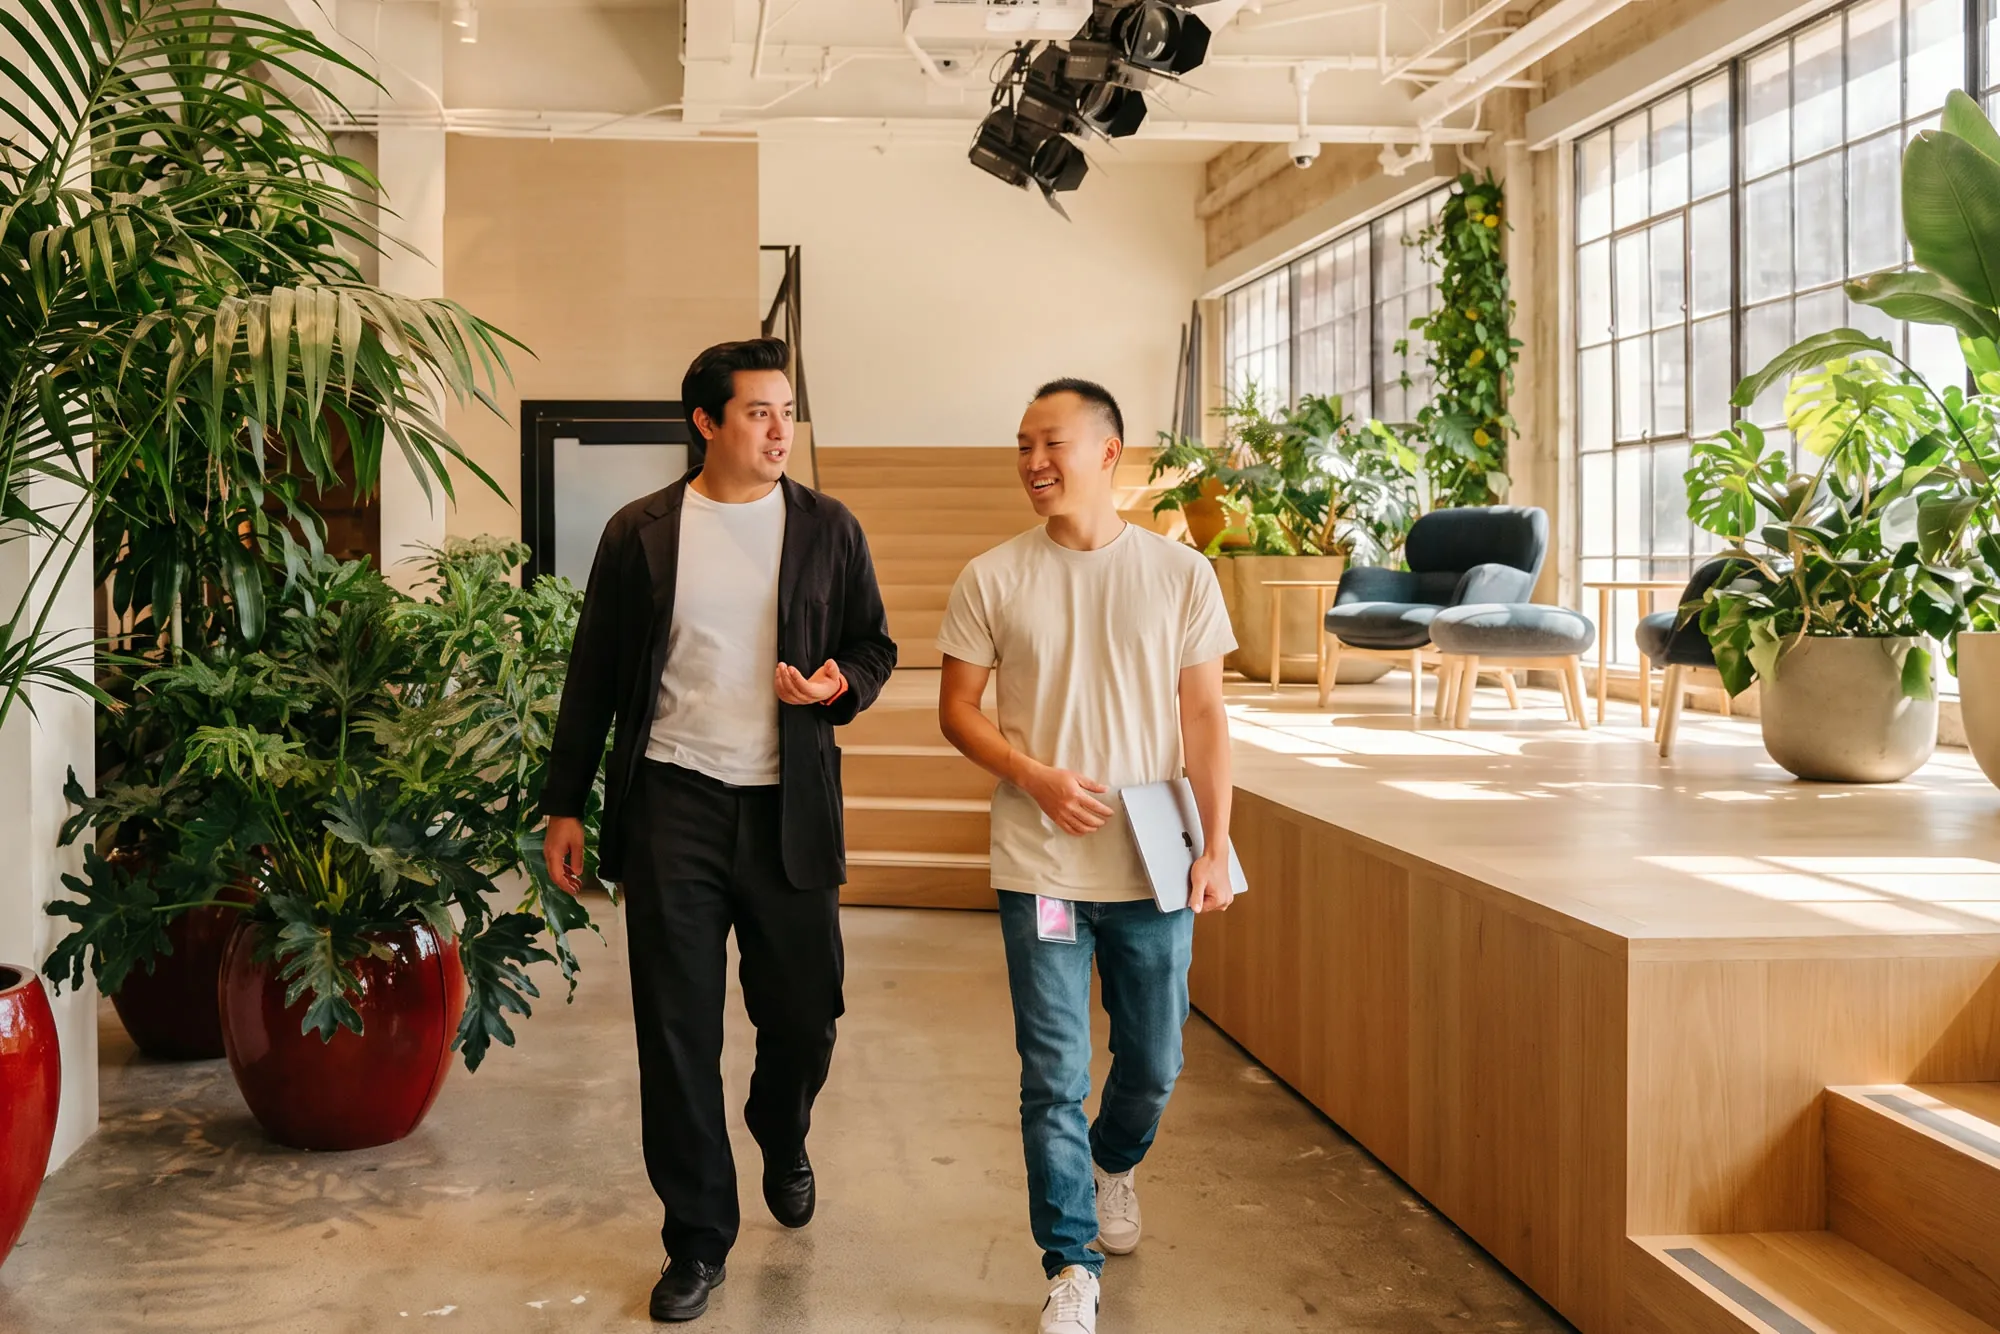
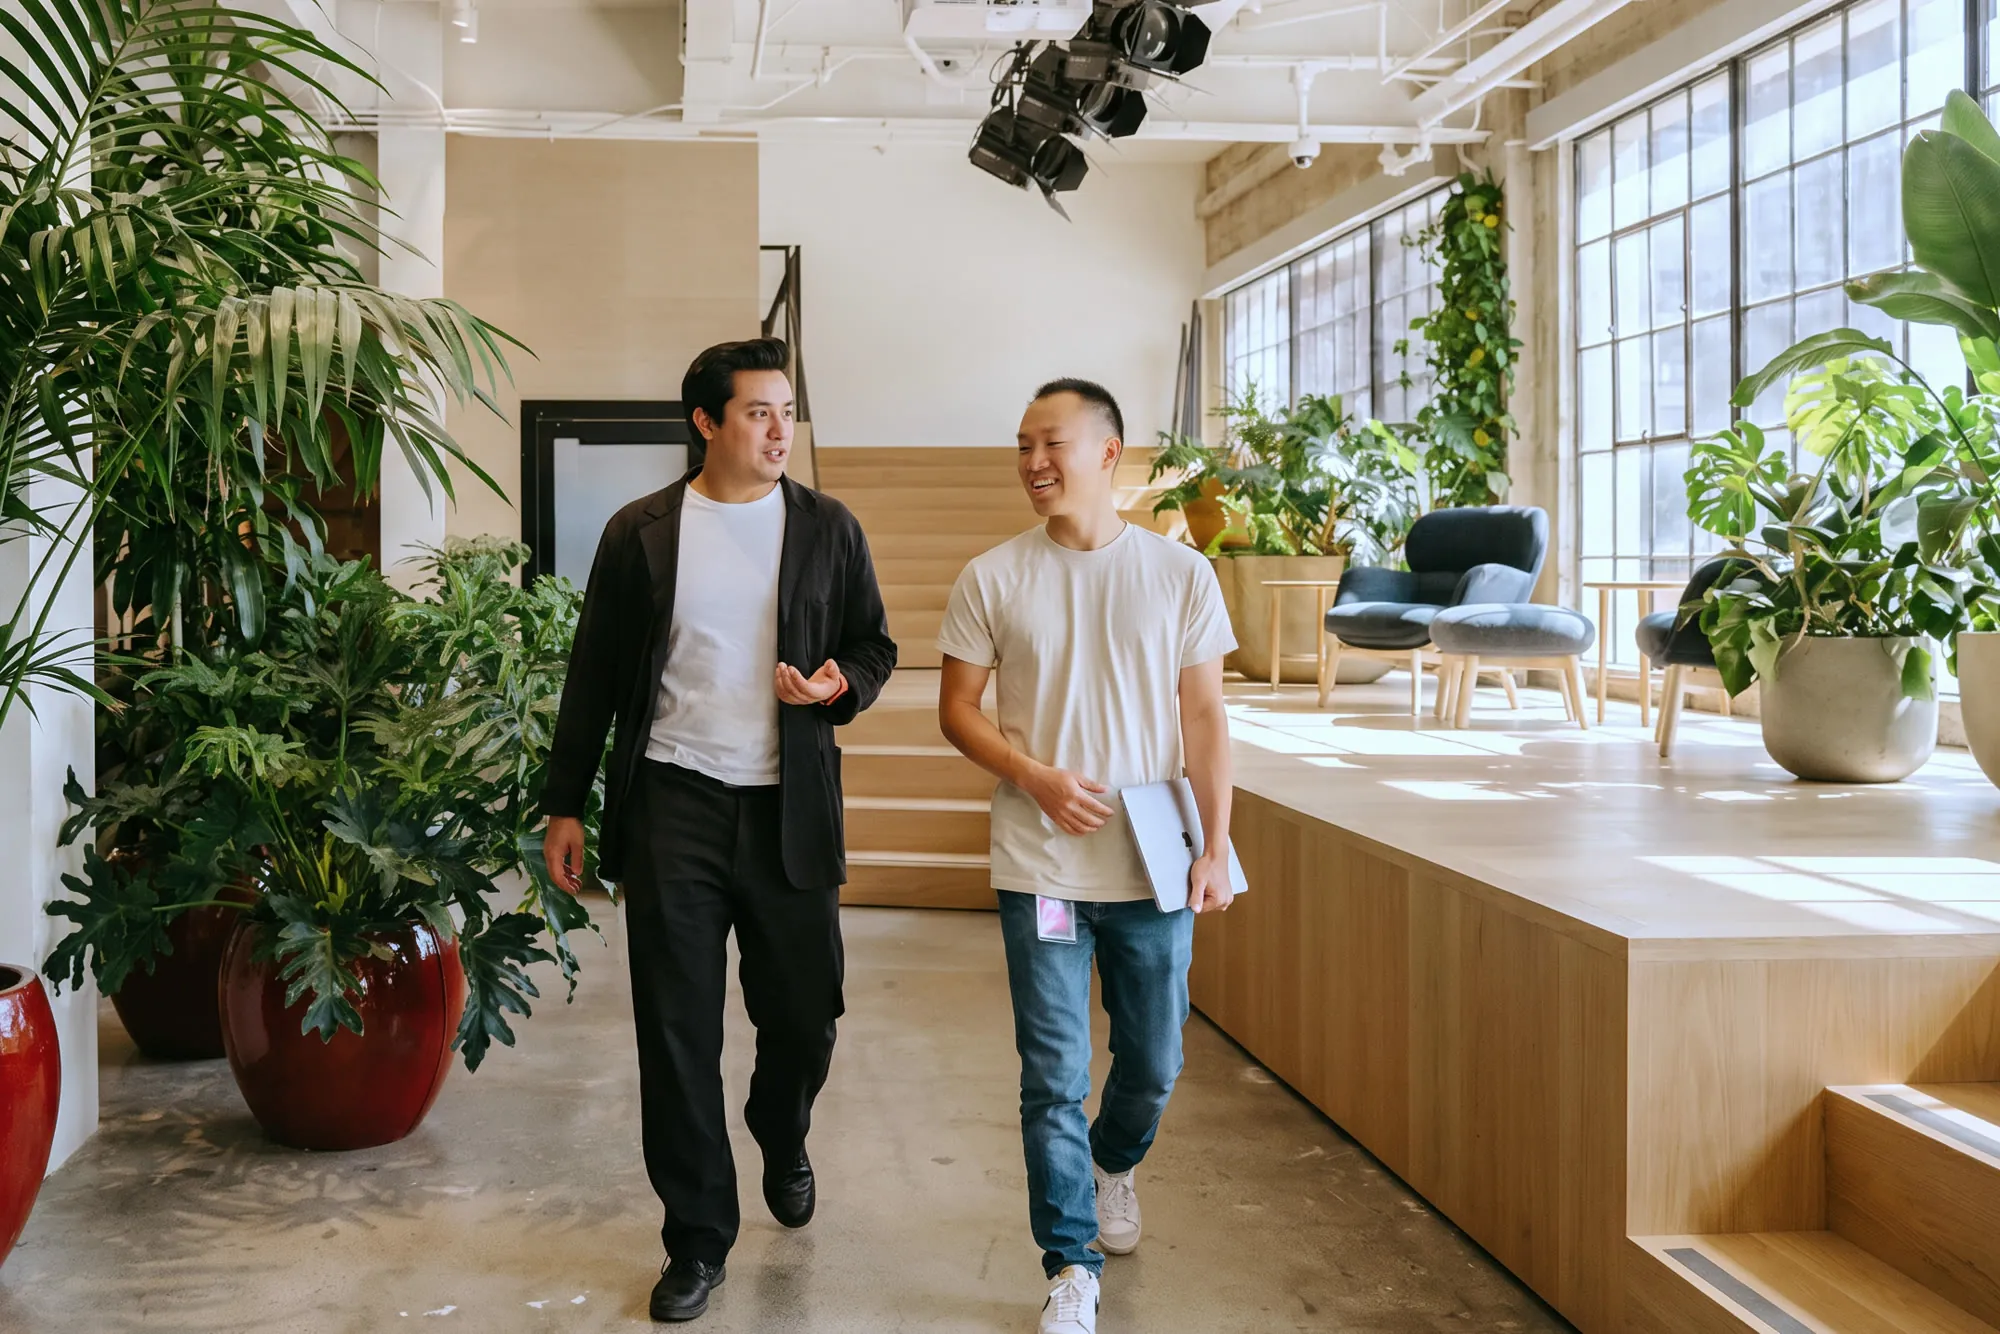
Moments: the walk graded cooler to match the others; listening panel quotes the question asked, with its time

diff --git a/index.html b/index.html
@@ -27,7 +27,7 @@
 <link rel="preload" as="image" type="image/webp" fetchpriority="high" media="(min-aspect-ratio: 4/5)"
       imagesrcset="/media/hero-s-poster-1000.webp 1000w, /media/hero-s-poster-1920.webp 1920w, /media/hero-s-poster-2560.webp 2560w, /media/hero-s-poster-3840.webp 3840w" imagesizes="100vw">
 <link rel="preload" as="font" type="font/woff2" href="/fonts/dm-sans-latin.woff2" crossorigin>
-<link rel="stylesheet" href="v6.css?v=20261020h">
+<link rel="stylesheet" href="v6.css?v=20261020i">
 <script>document.documentElement.classList.add('js')</script>
 
 <script type="application/ld+json">
@@ -170,8 +170,9 @@
           <span class="moment__tag">Between meetings</span>
           <figcaption class="moment__story">
             <div class="mviz" aria-hidden="true">
-                <p class="mviz__head"><span style="--c: #59C7FF">Listening &amp; inquiry</span></p>
-                <p class="mviz__text">You asked what was blocking him before suggesting a fix, then moved the date to fit.</p>
+                <p class="mviz__head"><span style="--c: #59C7FF">Listening &amp; inquiry</span><small>What worked</small></p>
+                <p class="mviz__said"><b>“What’s blocking you right now?”</b><small>You asked · 11:42 AM</small></p>
+                <p class="mviz__text">You asked before suggesting a fix, then moved the date to fit.</p>
             </div>
             <p class="moment__line">Listen better, even on the go.</p>
           </figcaption>

diff --git a/v6/index.html b/v6/index.html
@@ -28,7 +28,7 @@
 <link rel="preload" as="image" type="image/webp" fetchpriority="high" media="(min-aspect-ratio: 4/5)"
       imagesrcset="/media/hero-s-poster-1000.webp 1000w, /media/hero-s-poster-1920.webp 1920w, /media/hero-s-poster-2560.webp 2560w, /media/hero-s-poster-3840.webp 3840w" imagesizes="100vw">
 <link rel="preload" as="font" type="font/woff2" href="/fonts/dm-sans-latin.woff2" crossorigin>
-<link rel="stylesheet" href="v6.css?v=20261020h">
+<link rel="stylesheet" href="v6.css?v=20261020i">
 <script>document.documentElement.classList.add('js')</script>
 
 <script type="application/ld+json">
@@ -171,8 +171,9 @@
           <span class="moment__tag">Between meetings</span>
           <figcaption class="moment__story">
             <div class="mviz" aria-hidden="true">
-                <p class="mviz__head"><span style="--c: #59C7FF">Listening &amp; inquiry</span></p>
-                <p class="mviz__text">You asked what was blocking him before suggesting a fix, then moved the date to fit.</p>
+                <p class="mviz__head"><span style="--c: #59C7FF">Listening &amp; inquiry</span><small>What worked</small></p>
+                <p class="mviz__said"><b>“What’s blocking you right now?”</b><small>You asked · 11:42 AM</small></p>
+                <p class="mviz__text">You asked before suggesting a fix, then moved the date to fit.</p>
             </div>
             <p class="moment__line">Listen better, even on the go.</p>
           </figcaption>

diff --git a/v6.css b/v6.css
@@ -1705,6 +1705,9 @@ html.js .site-header:not(.is-floating) .site-header__inner {
 .mviz__scale > p:last-child { display: flex; justify-content: space-between; font-size: 0.6875rem; color: rgba(255, 255, 255, 0.5); }
 .mviz__scale .is-on { color: rgba(255, 255, 255, 0.9); }
 .mviz__head span::before { flex: none; }
+.mviz__said { display: grid; gap: 3px; justify-self: start; padding: 10px 13px 9px; border-radius: 14px 14px 14px 4px; background: rgba(89, 199, 255, 0.16); box-shadow: inset 0 0 0 1px rgba(89, 199, 255, 0.28); }
+.mviz__said b { font-size: 0.9375rem; font-weight: 500; line-height: 1.3; }
+.mviz__said small { font-size: 0.6875rem; color: rgba(255, 255, 255, 0.6); }
 .mviz__steps { display: grid; grid-template-columns: repeat(4, 1fr); gap: 4px; }
 .mviz__steps i { height: 6px; border-radius: 3px; background: rgba(255, 255, 255, 0.2); }
 .mviz__steps i.is-lime { background: var(--lime); }

diff --git a/v6/v6.css b/v6/v6.css
@@ -1705,6 +1705,9 @@ html.js .site-header:not(.is-floating) .site-header__inner {
 .mviz__scale > p:last-child { display: flex; justify-content: space-between; font-size: 0.6875rem; color: rgba(255, 255, 255, 0.5); }
 .mviz__scale .is-on { color: rgba(255, 255, 255, 0.9); }
 .mviz__head span::before { flex: none; }
+.mviz__said { display: grid; gap: 3px; justify-self: start; padding: 10px 13px 9px; border-radius: 14px 14px 14px 4px; background: rgba(89, 199, 255, 0.16); box-shadow: inset 0 0 0 1px rgba(89, 199, 255, 0.28); }
+.mviz__said b { font-size: 0.9375rem; font-weight: 500; line-height: 1.3; }
+.mviz__said small { font-size: 0.6875rem; color: rgba(255, 255, 255, 0.6); }
 .mviz__steps { display: grid; grid-template-columns: repeat(4, 1fr); gap: 4px; }
 .mviz__steps i { height: 6px; border-radius: 3px; background: rgba(255, 255, 255, 0.2); }
 .mviz__steps i.is-lime { background: var(--lime); }
